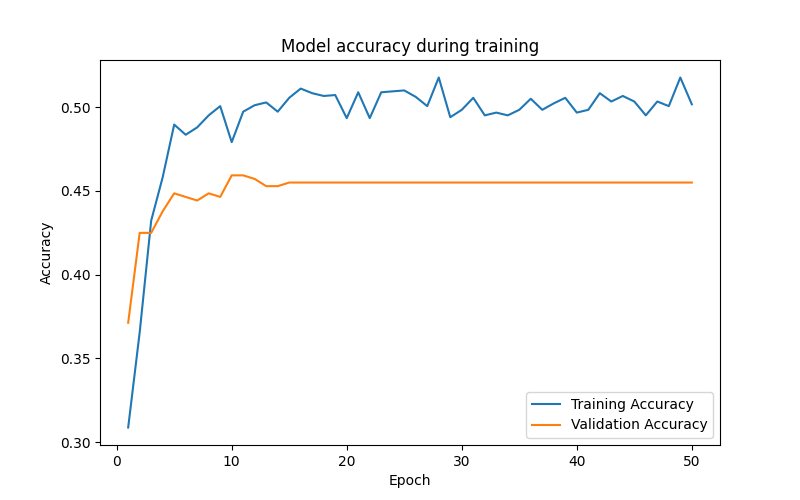
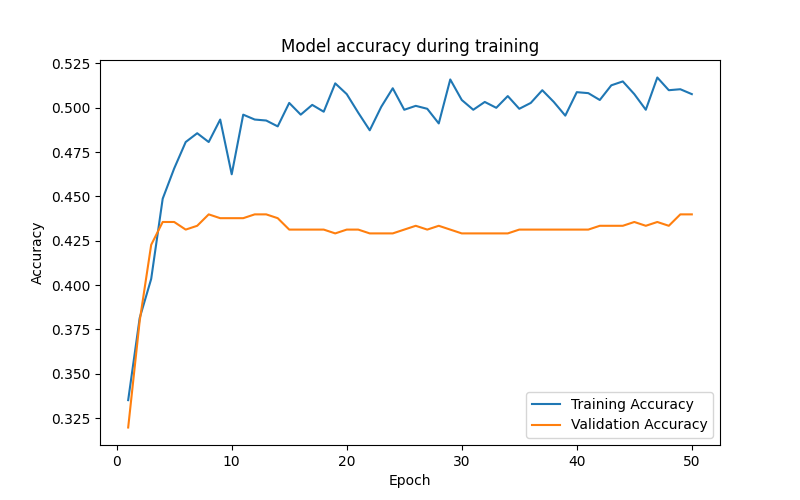
Updated the training process for the newest model and added logic to save and load the scaler object to the corresponding model

diff --git a/pipeline/modeling.py b/pipeline/modeling.py
@@ -1,9 +1,12 @@
 #! /home/marquzano/miniconda3/envs/machine_learning/bin/python3
 from data_transform import open_con, rolled_averages, make_matches, clean_matches, make_features_and_labels, make_cat_features, scale_features, one_hot_encode_labels
 import tensorflow as tf
+import joblib
 from keras.models import load_model
 from keras.callbacks import ModelCheckpoint, LearningRateScheduler
 import matplotlib.pyplot as plt
+
+LEARNING_RATE = 0.0005
 
 # make the numpy arrays into tensors
 def make_tensors(*args):
@@ -19,9 +22,9 @@ def save_model(model, filename):
 
 def scheduler(epoch, lr):
     if epoch < 15:
-        return lr
+        return LEARNING_RATE
     else:
-        return lr * 0.1    
+        return LEARNING_RATE * 0.1    
 
 if __name__ == '__main__':
     # bring in the data from data_transform
@@ -62,7 +65,8 @@ if __name__ == '__main__':
 
     # now we continue with sci-kit learn and create a scaler based on the training data
     # 2021-2025 seasons only
-    train_features_scaled, validate_features_scaled = scale_features(train_features, validate_features)
+    train_features_scaled, validate_features_scaled, scaler = scale_features(train_features, validate_features)
+    joblib.dump(scaler, 'models/epl_2_0_0_scaler.joblib')
 
     train_labels_encoded, validate_labels_encoded = one_hot_encode_labels(train_labels, validate_labels)
 
@@ -99,7 +103,7 @@ if __name__ == '__main__':
     model = tf.keras.models.Model(inputs=[match_ids, match_stats], outputs=output)
 
     # Compiling
-    adam = tf.keras.optimizers.Adam(learning_rate=0.0005)
+    adam = tf.keras.optimizers.Adam(learning_rate=LEARNING_RATE)
     model.compile(optimizer=adam, loss='categorical_crossentropy', metrics=['accuracy', 'precision'])
 
     # load model for re-training
@@ -144,4 +148,4 @@ if __name__ == '__main__':
 
     # saving first model
     # not absolutely necessary now that we have the model_checkpoint callback
-    save_model(model, 'models/epl_2_0_0.keras')
+    # save_model(model, 'models/epl_2_0_0.keras')

diff --git a/pipeline/predict.py b/pipeline/predict.py
@@ -1,7 +1,7 @@
 #! /home/marquzano/miniconda3/envs/machine_learning/bin/python3
-from data_transform import make_features_and_labels, scale_features
 from keras.models import load_model
 import sqlite3
+import joblib
 from modeling import make_tensors
 
 def get_model(filename):
@@ -12,8 +12,6 @@ def get_model(filename):
 if __name__ == '__main__':
     # open the sql connection
     con = sqlite3.connect('data/processed/EPL_data.db')
-
-    train_features, validate_features, train_labels, validate_labels = make_features_and_labels(con)
 
     new_stats_input = [[1.4, 2.012, 60.96, 14.8, 5.8, 2.2, 2.08, 46.28, 17.6, 5.2],
                        [0.8, 1.038, 41.6, 10.6, 3.2, 1.2, 1.078, 40.26, 10.6, 3.6],
@@ -36,15 +34,16 @@ if __name__ == '__main__':
                       [17, 6],
                       [22, 8],
                       [25, 11]]
-    
-    train_features_scaled, new_stats_input_scaled = scale_features(train_features, new_stats_input)
+
+    scaler = joblib.load('models/epl_2_0_0_scaler.joblib')
+    new_stats_input_scaled = scaler.transform(new_stats_input)
 
     packet = make_tensors(new_stats_input_scaled, new_team_input)
 
     stats_input_tensor_scaled = packet[0]
     team_input_tensor = packet[1]
 
-    model = get_model('models/epl_1_0_2.keras')
+    model = get_model('models/epl_2_0_0.keras')
 
     predictions = model.predict([team_input_tensor, stats_input_tensor_scaled])
 

diff --git a/pipeline/data_transform.py b/pipeline/data_transform.py
@@ -108,7 +108,7 @@ def scale_features(X_train, X_validate):
     X_train_scaled = scaler.transform(X_train)
     X_validate_scaled = scaler.transform(X_validate)
 
-    return X_train_scaled, X_validate_scaled
+    return X_train_scaled, X_validate_scaled, scaler
 
 def one_hot_encode_labels(y_train, y_validate):
     encoder = OneHotEncoder(sparse_output=False)
@@ -155,7 +155,7 @@ if __name__ == '__main__':
 
     # now we continue with sci-kit learn and create a scaler based on the training data
     # this is now adjusted to live data so it is 2021-2025 seasons only
-    train_features_scaled, validate_features_scaled = scale_features(train_features, validate_features)
+    train_features_scaled, validate_features_scaled, _ = scale_features(train_features, validate_features)
 
     train_labels_encoded, validate_labels_encoded = one_hot_encode_labels(train_labels, validate_labels)
 
